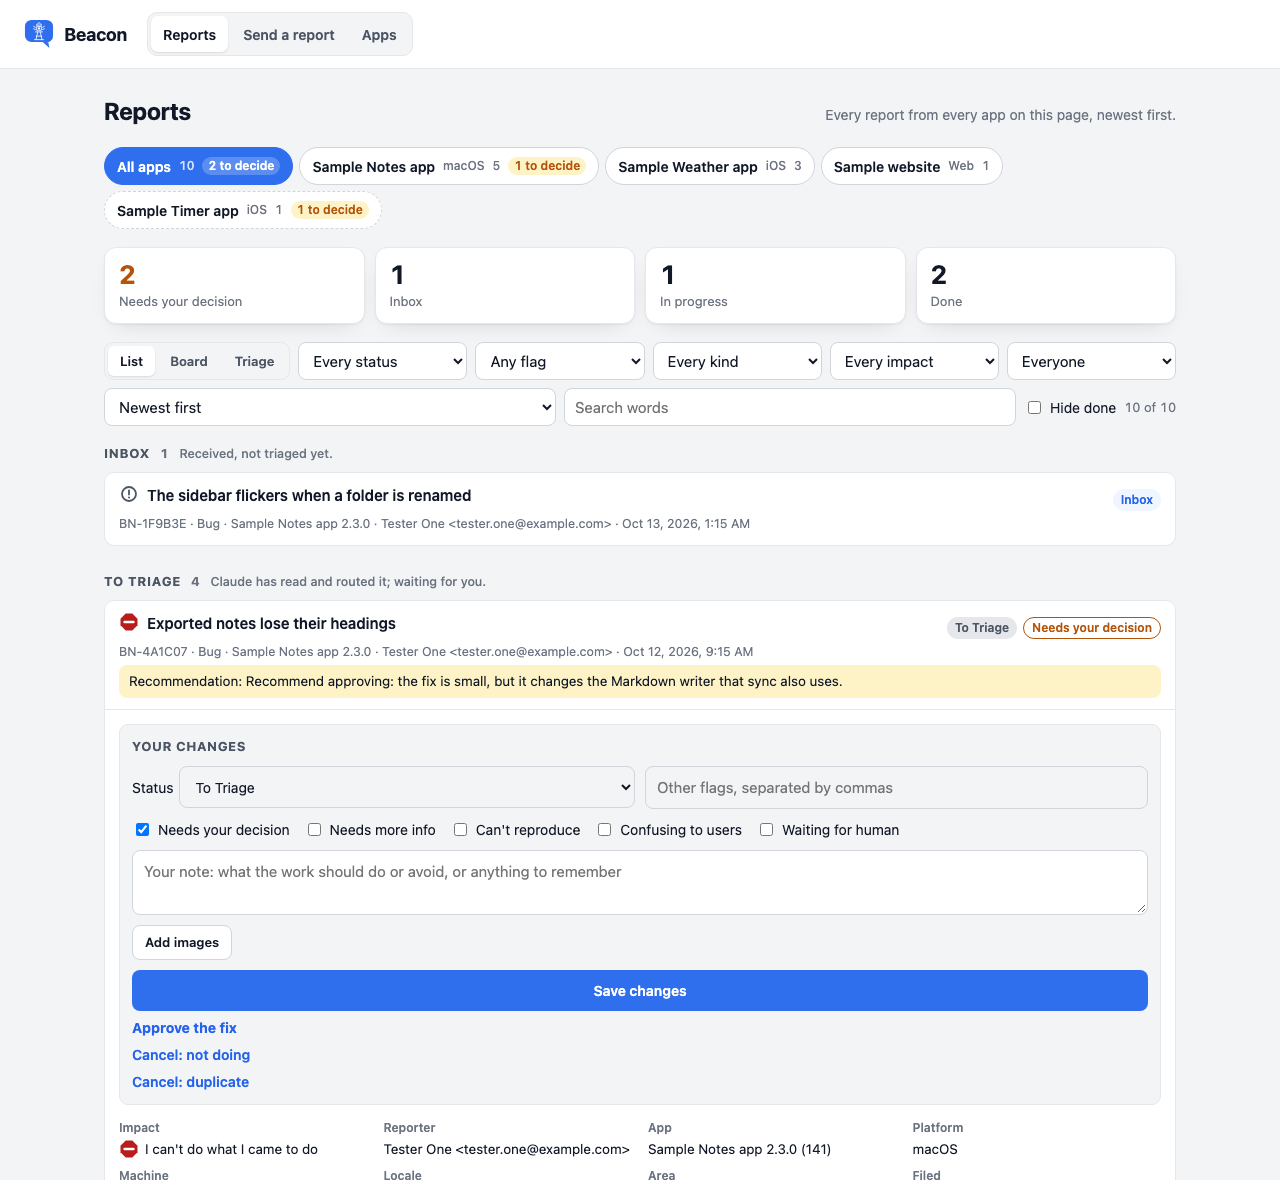
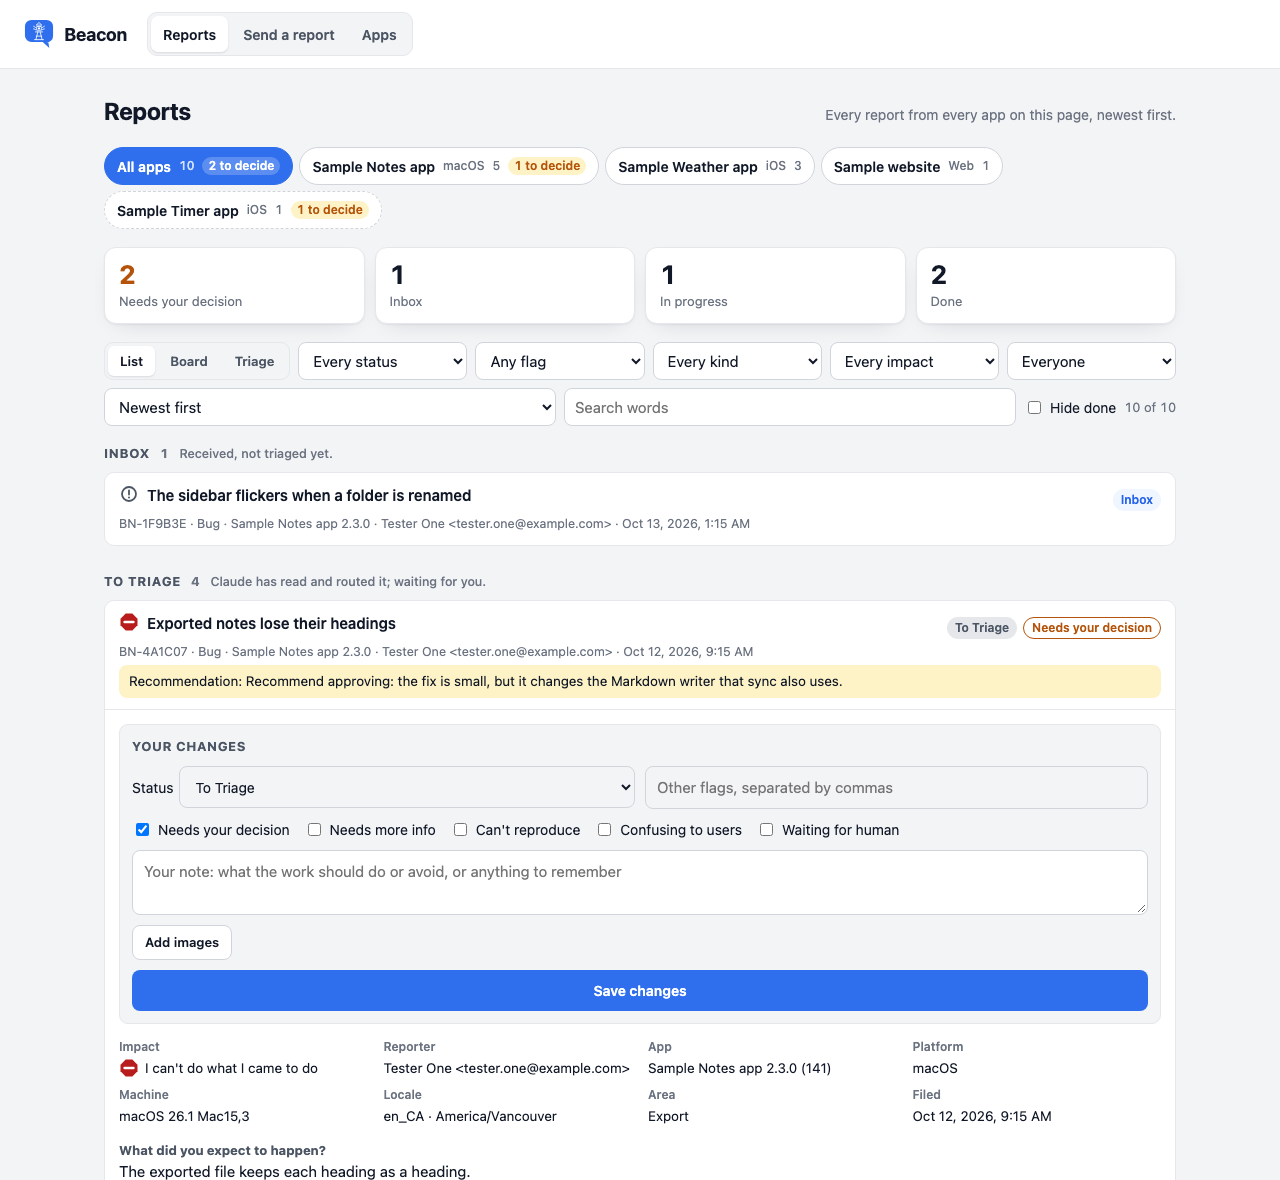
Your changes has no Approve or Cancel links: the Status menu does both; docs and pictures updated

Changed region(s): [[0.0938, 0.8542, 0.4688, 1.0], [0.5, 0.8847, 0.625, 1.0], [0.7188, 0.8847, 0.75, 1.0]]

diff --git a/Inbox/index.html b/Inbox/index.html
@@ -1237,7 +1237,7 @@
       default: return {};
     }
   };
-  const renderEditor = (r, links = true) => {
+  const renderEditor = (r) => {
     const status = el("select", { "aria-label": "Status" }, ...STATUS_CHOICES.map(([k, l]) => el("option", { value: k, text: l })));
     status.value = choiceOf(r);
     const have = new Set(flagsOf(r));
@@ -1301,24 +1301,11 @@
       act({ ...statusFields(r, status.value), flags: [...new Set(flags)] });
     });
     buttons.push(save);
-    const actions = [save];
-    // Deciding: for anything not finished and not already approved.
-    if (links && !isFinished(r) && r.status !== "approved" && r.status !== "triaging") {
-      const approve = el("button", { type: "button", class: "linkish strong", text: r.kind === "bug" ? "Approve the fix" : r.kind === "feedback" ? "Act on it" : "Approve building it" });
-      approve.addEventListener("click", () => act(approveFields(r, note.value.trim())));
-      buttons.push(approve); actions.push(approve);
-    }
-    if (links && columnOf(r) !== "closed") {
-      const notDoing = el("button", { type: "button", class: "linkish", text: "Cancel: not doing" });
-      notDoing.addEventListener("click", () => act(cancelFields(r, "declined", note.value.trim())));
-      const dup = el("button", { type: "button", class: "linkish", text: "Cancel: duplicate" });
-      dup.addEventListener("click", () => act(cancelFields(r, "duplicate", note.value.trim())));
-      buttons.push(notDoing, dup); actions.push(notDoing, dup);
-    }
+    // Approving and cancelling are statuses: the Status menu does both.
     return el("div", { class: "editor" }, el("h3", { text: "Your changes" }),
       el("div", { class: "grid2" }, el("label", { class: "opt" }, el("span", { text: "Status" }), status), extra),
       el("div", { class: "flagrow" }, ...boxes.map((b) => b.node)), note, ...(ownerImages ? [thumbsEl, attachBtn] : []),
-      el("div", { class: "choices" }, ...actions), msg);
+      el("div", { class: "choices" }, save), msg);
   };
   const canMove = () => Boolean(db && canEdit);
   const showBoardMsg = (text) => { const m = $("#boardMsg"); m.textContent = text; m.hidden = !text; };
@@ -1596,7 +1583,7 @@
     const key = current ? JSON.stringify(current) : "";
     if (key !== triageEditorKey || !$("#triageEditor").firstChild) {
       triageEditorKey = key;
-      $("#triageEditor").replaceChildren(...(current && canMove() ? [renderEditor(current, false)] : []));
+      $("#triageEditor").replaceChildren(...(current && canMove() ? [renderEditor(current)] : []));
     }
   };
   const renderKanban = (shown) => {

diff --git a/docs/the-board.md b/docs/the-board.md
@@ -81,9 +81,9 @@ The **List**, **Board** and **Triage** switch beside the filters changes how the
 
 Canceled and duplicate reports, reports closed as feedback, and reports that work as designed are not in a column. They are under **Closed**, below the board, folded away until you open it.
 
-Click a card's title to open the whole report, the same detail a list row shows, Approve and Cancel included.
+Click a card's title to open the whole report, the same detail a list row shows, with Your changes.
 
-![A card opened from the board: the report's detail in a panel over the board, with Approve the fix and the Cancel links](assets/page-kanban-card.png)
+![A card opened from the board: the report's detail in a panel over the board, with Your changes](assets/page-kanban-card.png)
 
 ### Move a card
 
@@ -91,9 +91,9 @@ With a mouse, drag the card itself. With a finger, drag it by its grip, the dott
 
 | Where it lands | What it does |
 |---|---|
-| To do | Approves it, exactly as **Approve the fix** or **Approve building it** does, unless it is already approved or being worked. The next pickup works it. Feedback can go here too: the pickup acts on it. |
+| To do | Approves it, exactly as choosing **To do** in the Status menu does, unless it is already approved or being worked. The next pickup works it. Feedback can go here too: the pickup acts on it. |
 | Out of To do, before work starts | Withdraws your approval and puts back the status it had. |
-| Canceled: not doing, Canceled: duplicate, or Closed: feedback | Closes it, with the reason. The next run closes the issue and says why. These are in the **Move to** menu and, for the two cancels, as the **Cancel** buttons on an opened report; they are not columns. |
+| Canceled: not doing, Canceled: duplicate, or Closed: feedback | Closes it, with the reason. The next run closes the issue and says why. These are in the **Move to** menu and; they are not columns. |
 | Any other column | Moves the card and nothing else. The pickup leaves a card where you put it; the only cards it moves are the ones it triages out of Inbox (into To Triage for you, or To do for bugs it fixes) and the ones it finishes (into Done). |
 | Back from Closed | Reopens it as triaged, in the column you chose. |
 
@@ -123,10 +123,10 @@ Click a count to show only those reports. Click it again to show everything.
 The third layout, **Triage**, is for working through what Claude has triaged: read a ticket, then drag it to where it goes.
 
 - **To Triage, on the left.** The To Triage column takes the left 60% of the page. One ticket is open at a time, shown with its whole report and triage's recommendation, outlined in blue. The top ticket is open when the page loads. Click another ticket's title to open it; the first closes, and the page scrolls the new one to the top. The rest are collapsed to a title, its status and the recommendation.
-- **Your changes, on the right.** The editor sits under the last status bar and always applies to the open ticket. A note you are typing is kept while other reports arrive, and starts again when you open a different ticket. This view leaves out the Approve and Cancel links: the Status menu does both.
+- **Your changes, on the right.** The editor sits under the last status bar and always applies to the open ticket. A note you are typing is kept while other reports arrive, and starts again when you open a different ticket. Approving and cancelling are statuses, so the Status menu does both.
 - **Status bars, on the right.** Every other status is a bar that shows its count: Backlog and To do on a row each, then In progress, Done and Deployed together, then Canceled: not doing, Canceled: duplicate and Closed: feedback together. The board's Inbox column is not here.
 - **Drag a ticket onto a bar** to move it. A small tag with the ticket's title follows the pointer and says where it would land ("Move to Done"), and the bar under the pointer turns blue. Drop it and the bar's count goes up; the next ticket opens. The ticket's **Move to** menu does the same from the keyboard.
-- **Look inside a status.** Click a bar to open it: it shows its five most recently moved tickets, newest first, and **Show 10 more** adds ten at a time. An opened bar takes the whole row. Each ticket is a list row, so opening one shows Your changes inline, Approve and Cancel included, as in the List. Several bars can be open at once.
+- **Look inside a status.** Click a bar to open it: it shows its five most recently moved tickets, newest first, and **Show 10 more** adds ten at a time. An opened bar takes the whole row. Each ticket is a list row, so opening one shows Your changes inline, as in the List. Several bars can be open at once.
 
 ![The Triage view: the To Triage column on the left with one ticket open, and on the right the status bars with their counts and Your changes underneath](assets/page-triage.png)
 
@@ -154,11 +154,11 @@ Each row shows an impact icon, the report's title, its status, and one line with
 
 Open a row to see the whole report:
 
-![A report that waits on a decision, opened: triage's recommendation and Your changes with Approve the fix and Cancel, then the facts and the tester's words](assets/page-decision.png)
+![A report that waits on a decision, opened: triage's recommendation and Your changes, then the facts and the tester's words](assets/page-decision.png)
 
 | Part | What it shows |
 |---|---|
-| **Your decision** | Approve and Decline, on a report that waits on you. Your decision, once made. |
+| **Your changes** | Status, flags, your note and images, for a report you can change. Your decision, once made. |
 | **Facts** | Impact, reporter, app with version and build, platform, commit, operating system and device, language and time zone, appearance and text size, area, when it was filed, repository, and the fixing commit. |
 | **The tester's words** | For a bug: what they expected, what happened, the steps, and whether it happens again. For a request: what they want, what makes it hard, and their idea. For a change request: what to change, what instead, and why. For anything else: their message. |
 | **Finding** | The verdict, what the product is supposed to do, and where in the source that is written down. |
@@ -183,11 +183,12 @@ To see the worst first, choose **Highest impact first** in the order menu. To se
 
 ## Approve or cancel
 
-A report that needs your call shows triage's **Recommendation** under its title: approve or decline, and why. Every opened report has the buttons below its note.
+A report that needs your call shows triage's **Recommendation** under its title: approve or decline, and why. You decide with the **Status** menu in Your changes, with a drag, or with **Move to**; there are no separate buttons.
 
-- **Approve the fix** (or **Approve building it**, or **Act on it** for feedback): the next pickup builds it, merges it and writes the commit onto the report. Dragging the card to To do is the same approval. What you wrote in the note is the instruction for the work.
-- **Cancel: not doing:** the next pickup closes the issue as not planned, with your note.
-- **Cancel: duplicate:** the next pickup closes the issue as a duplicate, with your note. Name the original in the note if you want it linked.
+- **To do** approves it: the next pickup builds it, merges it and writes the commit onto the report. Dragging the card to To do is the same approval. What you wrote in the note is the instruction for the work.
+- **Canceled** closes the issue as not planned at the next run, with your note.
+- **Duplicate** closes it as a duplicate. Name the original in the note if you want it linked.
+- **Closed: feedback** closes it as completed, for feedback you have read.
 
 ## Changes reach GitHub at the next run
 
@@ -199,7 +200,7 @@ The page could update the issue the moment you change something, through a GitHu
 
 ## Change a report's status and flags
 
-Every opened report has **Your changes** (for people who can edit the page): the status, the flags, your note, and the buttons **Save changes**, **Approve** and **Cancel**. Pick the status, tick the flags, add any of your own separated by commas, write a note, and **Save changes**. The note is on every report; **Approve** uses it as the instruction for the work. Choosing To do approves it; Canceled and Duplicate close its issue on the next run, as the Cancel buttons do. Everything you change on the board is copied to the GitHub issue by the daily check (`Scripts/push-edits.py`): the labels for the status and flags, and open or closed. A report you have changed by hand is left alone by the mirror script, so GitHub's labels never put it back.
+Every opened report has **Your changes** (for people who can edit the page): the status, the flags, your note, and **Save changes**. Pick the status, tick the flags, add any of your own separated by commas, write a note, and **Save changes**. The note is on every report and is the instruction for the work once you choose To do. Choosing To do approves it; Canceled, Duplicate and Closed: feedback close its issue on the next run. Everything you change on the board is copied to the GitHub issue by the daily check (`Scripts/push-edits.py`): the labels for the status and flags, and open or closed. A report you have changed by hand is left alone by the mirror script, so GitHub's labels never put it back.
 
 ## Filter
 

diff --git a/docs/how-it-works.md b/docs/how-it-works.md
@@ -50,7 +50,7 @@ A flag says more about a report than its status does. A report has one status an
 | Confusing to users | `expectation-mismatch` | The app did what it should, but the tester expected something else. A separate report about the gap is opened. |
 | Waiting for human | `flags` list only | Yours to set in Your changes. The report can sit in To do, but the pickup leaves it completely alone until you clear the flag, for example while it needs design work. It is the one thing that holds an approved report back. |
 
-A status value the page does not know shows as the value itself. You set To do, Backlog, Canceled, Duplicate and Closed: feedback on the dashboard (the Approve and Cancel buttons, the Status menu, or Move to). The mirror script sets Canceled and Duplicate from an issue closed as not planned or as a duplicate (Triage/PICKUP.md, Part 0).
+A status value the page does not know shows as the value itself. You set To do, Backlog, Canceled, Duplicate and Closed: feedback on the dashboard (the Status menu, or Move to). The mirror script sets Canceled and Duplicate from an issue closed as not planned or as a duplicate (Triage/PICKUP.md, Part 0).
 
 ## Columns
 

diff --git a/Inbox/README.md b/Inbox/README.md
@@ -6,7 +6,7 @@
 
 | View | What it is |
 |---|---|
-| **Reports** | [The dashboard](../docs/the-board.md): every report from every app, a tab per app, counts of what waits on the owner, and Approve and Cancel, as a list or as a board with Backlog, Inbox, Triaged, To do, In progress, Done and Deployed columns. Your changes reach the GitHub issues at the next daily run. The page opens here. |
+| **Reports** | [The dashboard](../docs/the-board.md): every report from every app, a tab per app, counts of what waits on the owner, and a Status menu to approve or cancel, as a list, as a board with Backlog, To Triage, To do, In progress, Done and Deployed columns, or as a Triage view. Your changes reach the GitHub issues at the next daily run. The page opens here. |
 | **Send a report** | The report form testers fill in. A link from the Beacon button inside an app opens here, with the app chosen. |
 | **Apps** | The app list: add, change and remove apps, with no database editing and no republish. |
 

diff --git a/README.md b/README.md
@@ -26,7 +26,7 @@ You read every report from every app on one page, grouped by what stage it is in
 
 Open a report to see what the tester wrote, what triage found and its recommendation, and to decide:
 
-![An opened report: triage's recommendation, Your changes with the approve and cancel links, then the facts and the tester's words](docs/assets/readme-report.jpg)
+![An opened report: triage's recommendation, Your changes, then the facts and the tester's words](docs/assets/readme-report.jpg)
 
 The board lays the same reports out as one column per stage. Drag a card to another column to move it:
 
